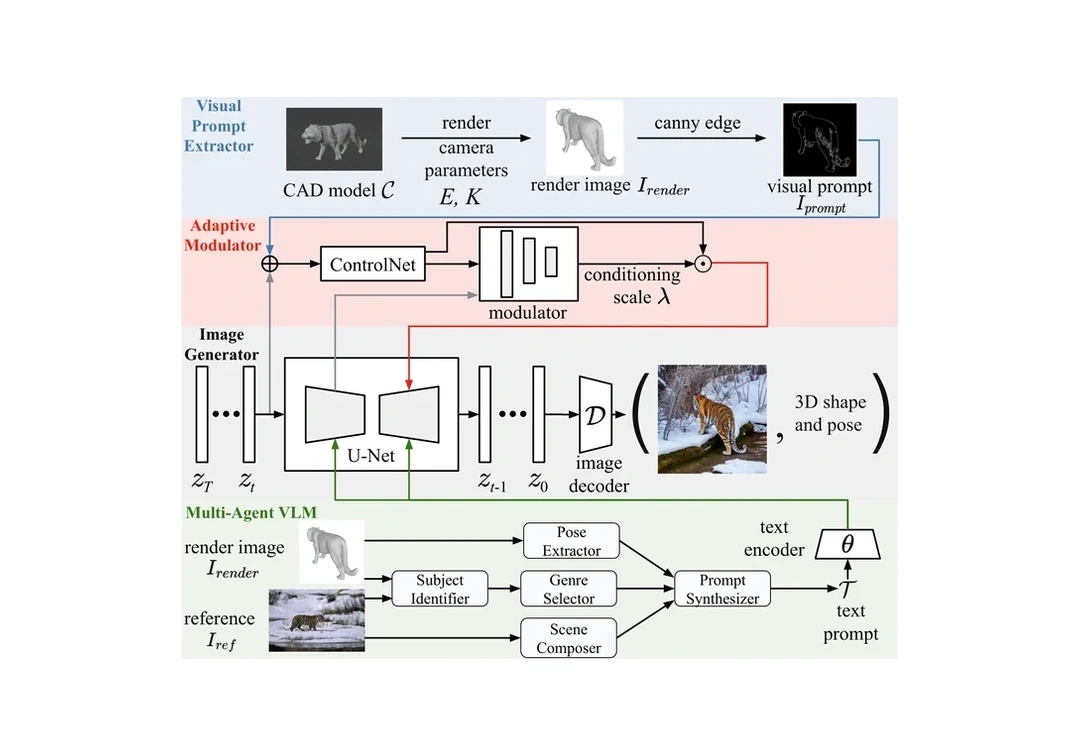
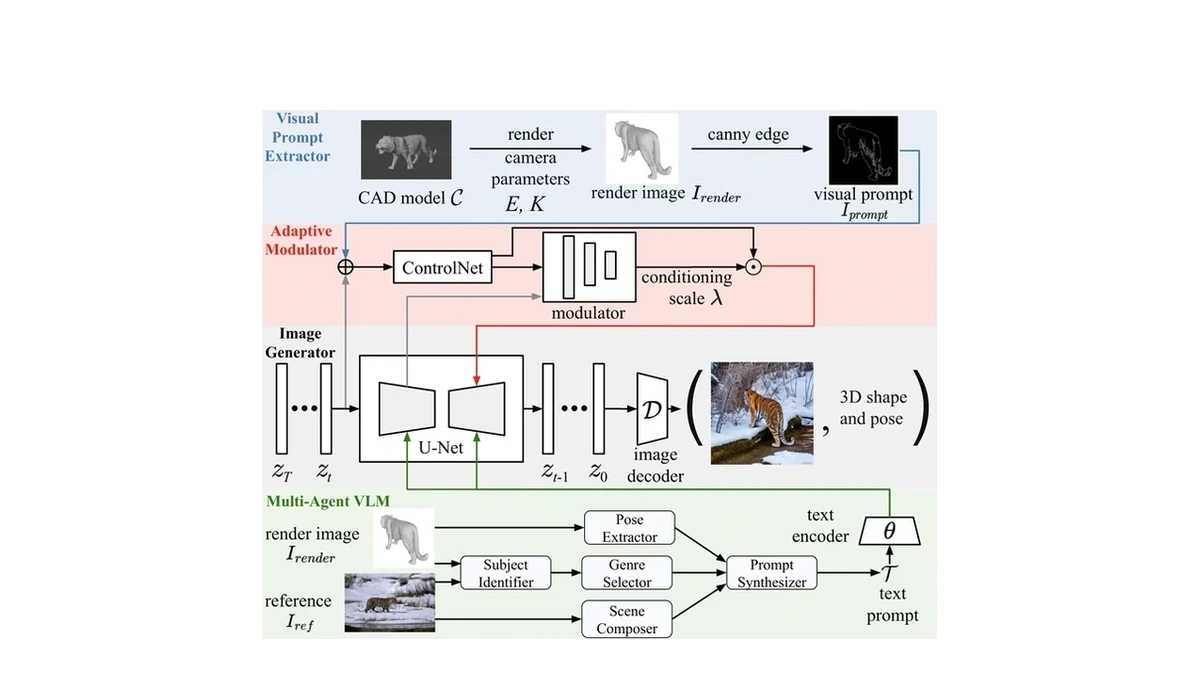
Update site description and paper thumbnails
Describe Qiran Hu as a Columbia MS student. Frame thumbnails at 16 by 9 and add an AC3S Poster link.

Changed region(s): [[0.1528, 0.1244, 0.8556, 0.9644]]

diff --git a/index.html b/index.html
@@ -7,15 +7,15 @@
     <meta name="theme-color" content="#13294B" />
     <!-- seo:head -->
     <title>Qiran Hu | Research Assistant</title>
-    <meta name="description" content="Qiran Hu, research assistant at the University of Illinois Urbana-Champaign working on multimodal learning, 3D-aware generative models, and multi-agent AI." />
+    <meta name="description" content="Qiran Hu, M.S. student at Columbia University and research assistant at UIUC, working on multimodal learning, 3D-aware generative models, and multi-agent AI." />
     <meta name="author" content="Qiran Hu" />
-    <meta name="keywords" content="Qiran Hu, 3D and 4D Aware Generative Models, World Models and Spatial Intelligence, Novel View Synthesis and Multi View Geometry, Continual and Multimodal Representation Learning, Multi Agent Orchestration and Agent Harnesses, Long Horizon Agent Memory and Context Engineering, Context Efficient Retrieval Augmented Generation, Long Form Video Language and Audio Visual Understanding, Foundation Model Training and Post Training, Quantization, Kernel Optimization, and Efficient Inference, Human AI Interaction and Agent Evaluation" />
+    <meta name="keywords" content="Qiran Hu, 3D- and 4D-Aware Generative Models, World Models and Spatial Intelligence, Novel View Synthesis and Multi-View Geometry, Continual and Multimodal Representation Learning, Multi-Agent Orchestration and Agent Harnesses, Long-Horizon Agent Memory and Context Engineering, Context-Efficient Retrieval-Augmented Generation, Long-Form Video-Language and Audio-Visual Understanding, Foundation Model Training and Post-Training, Quantization, Kernel Optimization, and Efficient Inference, Human-AI Interaction and Agent Evaluation" />
     <meta name="robots" content="index, follow, max-image-preview:large, max-snippet:-1, max-video-preview:-1" />
     <link rel="canonical" href="https://edward-h26.github.io/" />
     <meta property="og:type" content="profile" />
     <meta property="og:site_name" content="Qiran Hu" />
     <meta property="og:title" content="Qiran Hu | Research Assistant" />
-    <meta property="og:description" content="Qiran Hu, research assistant at the University of Illinois Urbana-Champaign working on multimodal learning, 3D-aware generative models, and multi-agent AI." />
+    <meta property="og:description" content="Qiran Hu, M.S. student at Columbia University and research assistant at UIUC, working on multimodal learning, 3D-aware generative models, and multi-agent AI." />
     <meta property="og:url" content="https://edward-h26.github.io/" />
     <meta property="og:image" content="https://edward-h26.github.io/images/og-card.png" />
     <meta property="og:image:width" content="1200" />
@@ -28,7 +28,7 @@
     <meta name="twitter:site" content="@QiranHu" />
     <meta name="twitter:creator" content="@QiranHu" />
     <meta name="twitter:title" content="Qiran Hu | Research Assistant" />
-    <meta name="twitter:description" content="Qiran Hu, research assistant at the University of Illinois Urbana-Champaign working on multimodal learning, 3D-aware generative models, and multi-agent AI." />
+    <meta name="twitter:description" content="Qiran Hu, M.S. student at Columbia University and research assistant at UIUC, working on multimodal learning, 3D-aware generative models, and multi-agent AI." />
     <meta name="twitter:image" content="https://edward-h26.github.io/images/og-card.png" />
     <link rel="me" href="https://github.com/Edward-H26" />
     <link rel="me" href="https://www.linkedin.com/in/qiranhu/" />
@@ -41,7 +41,7 @@
     .static-profile h3{font-size:1.05rem;margin:1.25rem 0 .25rem}
     .static-profile .meta{margin:0 0 .35rem;color:#4b5563}
     .static-profile nav ul{display:flex;flex-wrap:wrap;gap:.75rem;list-style:none;padding:0}</style>
-    <script type="application/ld+json">{"@context":"https://schema.org","@graph":[{"@type":"Person","@id":"https://edward-h26.github.io/#person","name":"Qiran Hu","givenName":"Qiran","familyName":"Hu","jobTitle":"Research Assistant","description":"I am a current student in Fu Foundation School of Engineering and Applied Science at Columbia University. I am a research assistant in Computer Vision and Machine Learning Group at University of Illinois Urbana-Champaign. I am also affiliated with the National Center for Supercomputing Applications and National Artificial Intelligence Research Resource Pilot. Previously, I received my B.S. in Data Science and Information Science with minors in Computer Science and Statistics at University of Illinois Urbana-Champaign. I am an applied AI researcher and full-stack software engineer creating new ways for people to interact with AI. I push the frontier of agentic experiences through rapid internal experiments. My research spans self-evolving multi-agent orchestration, dynamic context engineering for long-term memory, 3D-aware generative modeling, multimodal reasoning, and the next generation of human-AI interfaces.","email":"mailto:qh2332@columbia.edu","telephone":"+1 (347)-957-9176","url":"https://edward-h26.github.io/","image":"https://edward-h26.github.io/images/profile-1024.jpg","worksFor":{"@type":"Organization","name":"University of Illinois Urbana-Champaign","url":"https://www.illinois.edu/"},"affiliation":[{"@type":"Organization","name":"UIUC Computer Vision and Machine Learning Group","url":"https://vision.ischool.illinois.edu/people/"},{"@type":"EducationalOrganization","name":"Columbia University"},{"@type":"EducationalOrganization","name":"University of Illinois Urbana-Champaign"}],"sameAs":["https://github.com/Edward-H26","https://www.linkedin.com/in/qiranhu/","https://x.com/QiranHu","https://scholar.google.com/citations?user=4jv03f4AAAAJ&hl=en","https://edward-h26.github.io/PersonalWebsite/"],"knowsAbout":["3D and 4D Aware Generative Models","World Models and Spatial Intelligence","Novel View Synthesis and Multi View Geometry","Continual and Multimodal Representation Learning","Multi Agent Orchestration and Agent Harnesses","Long Horizon Agent Memory and Context Engineering","Context Efficient Retrieval Augmented Generation","Long Form Video Language and Audio Visual Understanding","Foundation Model Training and Post Training","Quantization, Kernel Optimization, and Efficient Inference","Human AI Interaction and Agent Evaluation"]},{"@type":"WebSite","@id":"https://edward-h26.github.io/#website","url":"https://edward-h26.github.io/","name":"Qiran Hu","description":"Qiran Hu, research assistant at the University of Illinois Urbana-Champaign working on multimodal learning, 3D-aware generative models, and multi-agent AI.","inLanguage":"en","author":{"@id":"https://edward-h26.github.io/#person"},"publisher":{"@id":"https://edward-h26.github.io/#person"}},{"@type":"ProfilePage","@id":"https://edward-h26.github.io/#profilepage","url":"https://edward-h26.github.io/","name":"Qiran Hu | Research Assistant","description":"Qiran Hu, research assistant at the University of Illinois Urbana-Champaign working on multimodal learning, 3D-aware generative models, and multi-agent AI.","inLanguage":"en","isPartOf":{"@id":"https://edward-h26.github.io/#website"},"mainEntity":{"@id":"https://edward-h26.github.io/#person"},"hasPart":[{"@type":"WebPage","@id":"https://edward-h26.github.io/publications/","url":"https://edward-h26.github.io/publications/","name":"Publications | Qiran Hu","description":"Publications of Qiran Hu, Research Assistant at University of Illinois Urbana-Champaign: AC3S: Adaptive Conditioning for 3D-Aware Synthetic Data Generation;…","isPartOf":{"@id":"https://edward-h26.github.io/#website"}},{"@type":"WebPage","@id":"https://edward-h26.github.io/research/","url":"https://edward-h26.github.io/research/","name":"Research | Qiran Hu","description":"Research of Qiran Hu, Research Assistant at University of Illinois Urbana-Champaign: UIUC Computer Vision and Machine Learning Group; Multi-modal Generative…","isPartOf":{"@id":"https://edward-h26.github.io/#website"}},{"@type":"WebPage","@id":"https://edward-h26.github.io/experience/","url":"https://edward-h26.github.io/experience/","name":"Experience | Qiran Hu","description":"Experience of Qiran Hu, Research Assistant at University of Illinois Urbana-Champaign: IBM Research; Memoria; Two by Two Learning; WRC, University of Illinois…","isPartOf":{"@id":"https://edward-h26.github.io/#website"}},{"@type":"WebPage","@id":"https://edward-h26.github.io/projects/","url":"https://edward-h26.github.io/projects/","name":"Projects | Qiran Hu","description":"Projects of Qiran Hu, Research Assistant at University of Illinois Urbana-Champaign: Long-Form Video-Language and Audio-Visual Social Understanding;…","isPartOf":{"@id":"https://edward-h26.github.io/#website"}},{"@type":"WebPage","@id":"https://edward-h26.github.io/teaching/","url":"https://edward-h26.github.io/teaching/","name":"Teaching | Qiran Hu","description":"Teaching of Qiran Hu, Research Assistant at University of Illinois Urbana-Champaign: CS 107 Data Science Discovery, University of Illinois Urbana-Champaign.","isPartOf":{"@id":"https://edward-h26.github.io/#website"}},{"@type":"WebPage","@id":"https://edward-h26.github.io/info/","url":"https://edward-h26.github.io/info/","name":"Info | Qiran Hu","description":"Info of Qiran Hu, Research Assistant at University of Illinois Urbana-Champaign: Languages; Certifications and Honors; Education.","isPartOf":{"@id":"https://edward-h26.github.io/#website"}},{"@type":"WebPage","@id":"https://edward-h26.github.io/service/","url":"https://edward-h26.github.io/service/","name":"Service | Qiran Hu","description":"Service of Qiran Hu, Research Assistant at University of Illinois Urbana-Champaign: OnePromptClaudeCode.","isPartOf":{"@id":"https://edward-h26.github.io/#website"}}]},{"@type":"ScholarlyArticle","@id":"https://arxiv.org/abs/2606.31204","headline":"AC3S: Adaptive Conditioning for 3D-Aware Synthetic Data Generation","name":"AC3S: Adaptive Conditioning for 3D-Aware Synthetic Data Generation","url":"https://arxiv.org/abs/2606.31204","author":[{"@type":"Person","name":"Eric Ji"},{"@id":"https://edward-h26.github.io/#person"},{"@type":"Person","name":"Wufei Ma"},{"@type":"Person","name":"Sarthak Jain"},{"@type":"Person","name":"Yingying Li"},{"@type":"Person","name":"Minh N. Do"},{"@type":"Person","name":"Yaoyao Liu"}],"subjectOf":[{"@type":"WebPage","name":"Code","url":"https://ac3s.cvmlgroup.web.illinois.edu/"},{"@type":"WebPage","name":"Video","url":"https://youtu.be/3jOJaT2a8iQ"},{"@type":"WebPage","name":"BibTeX","url":"https://arxiv.org/bibtex/2606.31204"}],"publication":{"@type":"PublicationEvent","name":"European Conference on Computer Vision (ECCV), 2026"}},{"@type":"ScholarlyArticle","@id":"https://arxiv.org/abs/2609.11209","headline":"REVA: Reusable Evidence View Aggregation for Context-Efficient RAG Serving","name":"REVA: Reusable Evidence View Aggregation for Context-Efficient RAG Serving","url":"https://arxiv.org/abs/2609.11209","author":[{"@type":"Person","name":"Tuan Nguyen"},{"@id":"https://edward-h26.github.io/#person"},{"@type":"Person","name":"Banruo Liu"},{"@type":"Person","name":"Khoa D. Doan"},{"@type":"Person","name":"Kok-Seng Wong"},{"@type":"Person","name":"Fan Lai"}],"subjectOf":[{"@type":"WebPage","name":"Code","url":"https://github.com/UIUC-MLSys/REVA"},{"@type":"WebPage","name":"BibTeX","url":"https://arxiv.org/bibtex/2609.11209"}],"publication":{"@type":"PublicationEvent","name":"IEEE International Conference on Data Mining (ICDM), 2026"}},{"@type":"ScholarlyArticle","@id":"https://edward-h26.github.io/publications/#publications-acdn-agent-aware-content-delivery-network","headline":"ACDN: Agent-Aware Content Delivery Network","name":"ACDN: Agent-Aware Content Delivery Network","url":"https://edward-h26.github.io/publications/#publications-acdn-agent-aware-content-delivery-network","author":[{"@type":"Person","name":"Tuan Nguyen"},{"@id":"https://edward-h26.github.io/#person"},{"@type":"Person","name":"Dibyadeep Saha"},{"@type":"Person","name":"Banruo Liu"},{"@type":"Person","name":"Khoa D. Doan"},{"@type":"Person","name":"Kok-Seng Wong"},{"@type":"Person","name":"Fan Lai"}],"creativeWorkStatus":"Under review"},{"@type":"ScholarlyArticle","@id":"https://edward-h26.github.io/publications/#publications-sv4d-3-0-single-step-3d-aware-diffusion-for-multi-view-consistent-4d-scene-generation","headline":"SV4D 3.0: Single-Step 3D-Aware Diffusion for Multi-View-Consistent 4D Scene Generation","name":"SV4D 3.0: Single-Step 3D-Aware Diffusion for Multi-View-Consistent 4D Scene Generation","url":"https://edward-h26.github.io/publications/#publications-sv4d-3-0-single-step-3d-aware-diffusion-for-multi-view-consistent-4d-scene-generation","author":[{"@id":"https://edward-h26.github.io/#person"},{"@type":"Person","name":"Wei Cao"},{"@type":"Person","name":"Yaoyao Liu"}],"creativeWorkStatus":"Under review"},{"@type":"ScholarlyArticle","@id":"https://edward-h26.github.io/publications/#publications-aisim-using-llm-simulation-as-epistemic-scaffolds-for-early-stage-qualitative-research-design","headline":"AISim: Using LLM-Simulation as Epistemic Scaffolds for Early Stage Qualitative Research Design","name":"AISim: Using LLM-Simulation as Epistemic Scaffolds for Early Stage Qualitative Research Design","url":"https://edward-h26.github.io/publications/#publications-aisim-using-llm-simulation-as-epistemic-scaffolds-for-early-stage-qualitative-research-design","author":[{"@type":"Person","name":"Hangyue Zhang"},{"@id":"https://edward-h26.github.io/#person"},{"@type":"Person","name":"Ziyi Zhang"},{"@type":"Person","name":"Hyanghee Park"},{"@type":"Person","name":"Yun Huang"}],"creativeWorkStatus":"Under review"},{"@type":"ScholarlyArticle","@id":"https://edward-h26.github.io/publications/#publications-alphawise-adaptive-weight-interpolation-for-continual-multimodal-representation-learning","headline":"AlphaWiSE: Adaptive Weight Interpolation for Continual Multimodal Representation Learning","name":"AlphaWiSE: Adaptive Weight Interpolation for Continual Multimodal Representation Learning","url":"https://edward-h26.github.io/publications/#publications-alphawise-adaptive-weight-interpolation-for-continual-multimodal-representation-learning","author":[{"@type":"Person","name":"Sarthak Jain"},{"@id":"https://edward-h26.github.io/#person"},{"@type":"Person","name":"Zhen Zhu"},{"@type":"Person","name":"Yaoyao Liu"}],"creativeWorkStatus":"Under review"}]}</script>
+    <script type="application/ld+json">{"@context":"https://schema.org","@graph":[{"@type":"Person","@id":"https://edward-h26.github.io/#person","name":"Qiran Hu","givenName":"Qiran","familyName":"Hu","jobTitle":"Research Assistant","description":"I am a current M.S. student in Fu Foundation School of Engineering and Applied Science at Columbia University. I am a research assistant in Computer Vision and Machine Learning Group at University of Illinois Urbana-Champaign. I am also affiliated with the National Center for Supercomputing Applications and National Artificial Intelligence Research Resource Pilot. Previously, I received my B.S. in Data Science and Information Science with minors in Computer Science and Statistics at University of Illinois Urbana-Champaign. I am an applied AI researcher and full-stack software engineer creating new ways for people to interact with AI. I push the frontier of agentic experiences through rapid internal experiments. My research spans self-evolving multi-agent orchestration, dynamic context engineering for long-term memory, 3D-aware generative modeling, multimodal reasoning, and the next generation of human-AI interfaces.","email":"mailto:qh2332@columbia.edu","telephone":"+1 (347) 957-9176","url":"https://edward-h26.github.io/","image":"https://edward-h26.github.io/images/profile-1024.jpg","worksFor":{"@type":"Organization","name":"University of Illinois Urbana-Champaign","url":"https://www.illinois.edu/"},"affiliation":[{"@type":"Organization","name":"UIUC Computer Vision and Machine Learning Group","url":"https://vision.ischool.illinois.edu/people/"},{"@type":"EducationalOrganization","name":"Columbia University"},{"@type":"EducationalOrganization","name":"University of Illinois Urbana-Champaign"}],"sameAs":["https://github.com/Edward-H26","https://www.linkedin.com/in/qiranhu/","https://x.com/QiranHu","https://scholar.google.com/citations?user=4jv03f4AAAAJ&hl=en","https://edward-h26.github.io/PersonalWebsite/"],"knowsAbout":["3D- and 4D-Aware Generative Models","World Models and Spatial Intelligence","Novel View Synthesis and Multi-View Geometry","Continual and Multimodal Representation Learning","Multi-Agent Orchestration and Agent Harnesses","Long-Horizon Agent Memory and Context Engineering","Context-Efficient Retrieval-Augmented Generation","Long-Form Video-Language and Audio-Visual Understanding","Foundation Model Training and Post-Training","Quantization, Kernel Optimization, and Efficient Inference","Human-AI Interaction and Agent Evaluation"]},{"@type":"WebSite","@id":"https://edward-h26.github.io/#website","url":"https://edward-h26.github.io/","name":"Qiran Hu","description":"Qiran Hu, M.S. student at Columbia University and research assistant at UIUC, working on multimodal learning, 3D-aware generative models, and multi-agent AI.","inLanguage":"en","author":{"@id":"https://edward-h26.github.io/#person"},"publisher":{"@id":"https://edward-h26.github.io/#person"}},{"@type":"ProfilePage","@id":"https://edward-h26.github.io/#profilepage","url":"https://edward-h26.github.io/","name":"Qiran Hu | Research Assistant","description":"Qiran Hu, M.S. student at Columbia University and research assistant at UIUC, working on multimodal learning, 3D-aware generative models, and multi-agent AI.","inLanguage":"en","isPartOf":{"@id":"https://edward-h26.github.io/#website"},"mainEntity":{"@id":"https://edward-h26.github.io/#person"},"hasPart":[{"@type":"WebPage","@id":"https://edward-h26.github.io/publications/","url":"https://edward-h26.github.io/publications/","name":"Publications | Qiran Hu","description":"Publications of Qiran Hu, Research Assistant at University of Illinois Urbana-Champaign: AC3S: Adaptive Conditioning for 3D-Aware Synthetic Data Generation;…","isPartOf":{"@id":"https://edward-h26.github.io/#website"}},{"@type":"WebPage","@id":"https://edward-h26.github.io/research/","url":"https://edward-h26.github.io/research/","name":"Research | Qiran Hu","description":"Research of Qiran Hu, Research Assistant at University of Illinois Urbana-Champaign: UIUC Computer Vision and Machine Learning Group; Multi-modal Generative…","isPartOf":{"@id":"https://edward-h26.github.io/#website"}},{"@type":"WebPage","@id":"https://edward-h26.github.io/experience/","url":"https://edward-h26.github.io/experience/","name":"Experience | Qiran Hu","description":"Experience of Qiran Hu, Research Assistant at University of Illinois Urbana-Champaign: IBM Research; Memoria; Two by Two Learning Center; WRC, University of…","isPartOf":{"@id":"https://edward-h26.github.io/#website"}},{"@type":"WebPage","@id":"https://edward-h26.github.io/projects/","url":"https://edward-h26.github.io/projects/","name":"Projects | Qiran Hu","description":"Projects of Qiran Hu, Research Assistant at University of Illinois Urbana-Champaign: Long-Form Video-Language and Audio-Visual Social Understanding;…","isPartOf":{"@id":"https://edward-h26.github.io/#website"}},{"@type":"WebPage","@id":"https://edward-h26.github.io/teaching/","url":"https://edward-h26.github.io/teaching/","name":"Teaching | Qiran Hu","description":"Teaching of Qiran Hu, Research Assistant at University of Illinois Urbana-Champaign: CS 107 Data Science Discovery, University of Illinois Urbana-Champaign.","isPartOf":{"@id":"https://edward-h26.github.io/#website"}},{"@type":"WebPage","@id":"https://edward-h26.github.io/info/","url":"https://edward-h26.github.io/info/","name":"Info | Qiran Hu","description":"Info of Qiran Hu, Research Assistant at University of Illinois Urbana-Champaign: Languages; Certifications and Honors; Education.","isPartOf":{"@id":"https://edward-h26.github.io/#website"}},{"@type":"WebPage","@id":"https://edward-h26.github.io/service/","url":"https://edward-h26.github.io/service/","name":"Service | Qiran Hu","description":"Service of Qiran Hu, Research Assistant at University of Illinois Urbana-Champaign: OnePromptClaudeCode.","isPartOf":{"@id":"https://edward-h26.github.io/#website"}}]},{"@type":"ScholarlyArticle","@id":"https://arxiv.org/abs/2606.31204","headline":"AC3S: Adaptive Conditioning for 3D-Aware Synthetic Data Generation","name":"AC3S: Adaptive Conditioning for 3D-Aware Synthetic Data Generation","url":"https://arxiv.org/abs/2606.31204","author":[{"@type":"Person","name":"Eric Ji"},{"@id":"https://edward-h26.github.io/#person"},{"@type":"Person","name":"Wufei Ma"},{"@type":"Person","name":"Sarthak Jain"},{"@type":"Person","name":"Yingying Li"},{"@type":"Person","name":"Minh N. Do"},{"@type":"Person","name":"Yaoyao Liu"}],"subjectOf":[{"@type":"WebPage","name":"Code","url":"https://ac3s.cvmlgroup.web.illinois.edu/"},{"@type":"WebPage","name":"Video","url":"https://youtu.be/3jOJaT2a8iQ"},{"@type":"WebPage","name":"Poster","url":"https://eccv.ecva.net/virtual/2026/poster/5183"},{"@type":"WebPage","name":"BibTeX","url":"https://arxiv.org/bibtex/2606.31204"}],"publication":{"@type":"PublicationEvent","name":"European Conference on Computer Vision (ECCV), 2026"}},{"@type":"ScholarlyArticle","@id":"https://arxiv.org/abs/2609.11209","headline":"REVA: Reusable Evidence View Aggregation for Context-Efficient RAG Serving","name":"REVA: Reusable Evidence View Aggregation for Context-Efficient RAG Serving","url":"https://arxiv.org/abs/2609.11209","author":[{"@type":"Person","name":"Tuan Nguyen"},{"@id":"https://edward-h26.github.io/#person"},{"@type":"Person","name":"Banruo Liu"},{"@type":"Person","name":"Khoa D. Doan"},{"@type":"Person","name":"Kok-Seng Wong"},{"@type":"Person","name":"Fan Lai"}],"subjectOf":[{"@type":"WebPage","name":"Code","url":"https://github.com/UIUC-MLSys/REVA"},{"@type":"WebPage","name":"BibTeX","url":"https://arxiv.org/bibtex/2609.11209"}],"publication":{"@type":"PublicationEvent","name":"IEEE International Conference on Data Mining (ICDM), 2026"}},{"@type":"ScholarlyArticle","@id":"https://edward-h26.github.io/publications/#publications-acdn-agent-aware-content-delivery-network","headline":"ACDN: Agent-Aware Content Delivery Network","name":"ACDN: Agent-Aware Content Delivery Network","url":"https://edward-h26.github.io/publications/#publications-acdn-agent-aware-content-delivery-network","author":[{"@type":"Person","name":"Tuan Nguyen"},{"@id":"https://edward-h26.github.io/#person"},{"@type":"Person","name":"Dibyadeep Saha"},{"@type":"Person","name":"Banruo Liu"},{"@type":"Person","name":"Khoa D. Doan"},{"@type":"Person","name":"Kok-Seng Wong"},{"@type":"Person","name":"Fan Lai"}],"creativeWorkStatus":"Under review"},{"@type":"ScholarlyArticle","@id":"https://edward-h26.github.io/publications/#publications-sv4d-3-0-single-step-3d-aware-diffusion-for-multi-view-consistent-4d-scene-generation","headline":"SV4D 3.0: Single-Step 3D-Aware Diffusion for Multi-View-Consistent 4D Scene Generation","name":"SV4D 3.0: Single-Step 3D-Aware Diffusion for Multi-View-Consistent 4D Scene Generation","url":"https://edward-h26.github.io/publications/#publications-sv4d-3-0-single-step-3d-aware-diffusion-for-multi-view-consistent-4d-scene-generation","author":[{"@id":"https://edward-h26.github.io/#person"},{"@type":"Person","name":"Wei Cao"},{"@type":"Person","name":"Yaoyao Liu"}],"creativeWorkStatus":"Under review"},{"@type":"ScholarlyArticle","@id":"https://edward-h26.github.io/publications/#publications-aisim-using-llm-simulation-as-epistemic-scaffolds-for-early-stage-qualitative-research-design","headline":"AISim: Using LLM-Simulation as Epistemic Scaffolds for Early Stage Qualitative Research Design","name":"AISim: Using LLM-Simulation as Epistemic Scaffolds for Early Stage Qualitative Research Design","url":"https://edward-h26.github.io/publications/#publications-aisim-using-llm-simulation-as-epistemic-scaffolds-for-early-stage-qualitative-research-design","author":[{"@type":"Person","name":"Hangyue Zhang"},{"@id":"https://edward-h26.github.io/#person"},{"@type":"Person","name":"Ziyi Zhang"},{"@type":"Person","name":"Hyanghee Park"},{"@type":"Person","name":"Yun Huang"}],"creativeWorkStatus":"Under review"},{"@type":"ScholarlyArticle","@id":"https://edward-h26.github.io/publications/#publications-alphawise-adaptive-weight-interpolation-for-continual-multimodal-representation-learning","headline":"AlphaWiSE: Adaptive Weight Interpolation for Continual Multimodal Representation Learning","name":"AlphaWiSE: Adaptive Weight Interpolation for Continual Multimodal Representation Learning","url":"https://edward-h26.github.io/publications/#publications-alphawise-adaptive-weight-interpolation-for-continual-multimodal-representation-learning","author":[{"@type":"Person","name":"Sarthak Jain"},{"@id":"https://edward-h26.github.io/#person"},{"@type":"Person","name":"Zhen Zhu"},{"@type":"Person","name":"Yaoyao Liu"}],"creativeWorkStatus":"Under review"}]}</script>
     <!-- /seo:head -->
     <link rel="preconnect" href="https://fonts.googleapis.com">
     <link rel="preconnect" href="https://fonts.gstatic.com" crossorigin>
@@ -59,7 +59,7 @@
       </header>
       <section id="about">
       <h2>About</h2>
-      <p>I am a current student in <a href="https://www.engineering.columbia.edu/about">Fu Foundation School of Engineering and Applied Science</a> at <a href="https://www.columbia.edu/">Columbia University</a>.</p>
+      <p>I am a current M.S. student in <a href="https://www.engineering.columbia.edu/about">Fu Foundation School of Engineering and Applied Science</a> at <a href="https://www.columbia.edu/">Columbia University</a>.</p>
       <p>I am a research assistant in <a href="https://vision.ischool.illinois.edu/index.html">Computer Vision and Machine Learning Group</a> at <a href="https://www.illinois.edu/">University of Illinois Urbana-Champaign</a>. I am also affiliated with the <a href="https://www.ncsa.illinois.edu/">National Center for Supercomputing Applications</a> and <a href="https://nairrpilot.org/">National Artificial Intelligence Research Resource Pilot</a>.</p>
       <p>Previously, I received my B.S. in Data Science and Information Science with minors in Computer Science and Statistics at <a href="https://www.illinois.edu/">University of Illinois Urbana-Champaign</a>.</p>
       <p>I am an applied AI researcher and full-stack software engineer creating new ways for people to interact with AI. I push the frontier of agentic experiences through rapid internal experiments. My research spans self-evolving multi-agent orchestration, dynamic context engineering for long-term memory, 3D-aware generative modeling, multimodal reasoning, and the next generation of human-AI interfaces.</p>
@@ -71,7 +71,7 @@
       </section>
       <section id="research-interests">
       <h2>Research Interests</h2>
-      <ul><li>3D and 4D Aware Generative Models</li><li>World Models and Spatial Intelligence</li><li>Novel View Synthesis and Multi View Geometry</li><li>Continual and Multimodal Representation Learning</li><li>Multi Agent Orchestration and Agent Harnesses</li><li>Long Horizon Agent Memory and Context Engineering</li><li>Context Efficient Retrieval Augmented Generation</li><li>Long Form Video Language and Audio Visual Understanding</li><li>Foundation Model Training and Post Training</li><li>Quantization, Kernel Optimization, and Efficient Inference</li><li>Human AI Interaction and Agent Evaluation</li></ul>
+      <ul><li>3D- and 4D-Aware Generative Models</li><li>World Models and Spatial Intelligence</li><li>Novel View Synthesis and Multi-View Geometry</li><li>Continual and Multimodal Representation Learning</li><li>Multi-Agent Orchestration and Agent Harnesses</li><li>Long-Horizon Agent Memory and Context Engineering</li><li>Context-Efficient Retrieval-Augmented Generation</li><li>Long-Form Video-Language and Audio-Visual Understanding</li><li>Foundation Model Training and Post-Training</li><li>Quantization, Kernel Optimization, and Efficient Inference</li><li>Human-AI Interaction and Agent Evaluation</li></ul>
       </section>
       <section id="publications">
       <h2><a href="https://edward-h26.github.io/publications/">Publications</a></h2>
@@ -79,7 +79,7 @@
       <article id="publications-ac3s-adaptive-conditioning-for-3d-aware-synthetic-data-generation">
       <h3>AC3S: Adaptive Conditioning for 3D-Aware Synthetic Data Generation</h3>
       <ul><li>[1] Eric Ji, Qiran Hu, Wufei Ma, Sarthak Jain, Yingying Li, Minh N. Do, Yaoyao Liu. AC3S: Adaptive Conditioning for 3D-Aware Synthetic Data Generation. European Conference on Computer Vision (ECCV), 2026.</li></ul>
-      <p>Links: <a href="https://arxiv.org/abs/2606.31204">arXiv</a>, <a href="https://ac3s.cvmlgroup.web.illinois.edu/">Code</a>, <a href="https://youtu.be/3jOJaT2a8iQ">Video</a>, <a href="https://arxiv.org/bibtex/2606.31204">BibTeX</a></p>
+      <p>Links: <a href="https://arxiv.org/abs/2606.31204">arXiv</a>, <a href="https://ac3s.cvmlgroup.web.illinois.edu/">Code</a>, <a href="https://youtu.be/3jOJaT2a8iQ">Video</a>, <a href="https://eccv.ecva.net/virtual/2026/poster/5183">Poster</a>, <a href="https://arxiv.org/bibtex/2606.31204">BibTeX</a></p>
       </article>
       <article id="publications-reva-reusable-evidence-view-aggregation-for-context-efficient-rag-serving">
       <h3>REVA: Reusable Evidence View Aggregation for Context-Efficient RAG Serving</h3>
@@ -130,7 +130,7 @@
       <article id="experience-ibm-research">
       <h3>IBM Research</h3>
       <p class="meta">Research Intern (Advisor: Dr. Dhaval Patel), 2026.09-Present, New York, NY</p>
-      <ul><li>Lead MCP server architecture for AssetOpsBench to give tool-using LLM agents typed access to failure-mode knowledge graphs, causal root-cause ranking, and intervention estimation with deterministic Neo4j queries and provenance on every result.</li><li>Create industrial fault-diagnosis RL environments for multi-step LLM agents over predictive-maintenance telemetry from 100 machines to benchmark evidence gathering and maintenance actions under hidden ground truth, look-alike faults, and incomplete observations.</li><li>Conduct controlled evaluations of four LLM agents under one model and action budget, raising Top-1 diagnosis accuracy by 88% over a Plan-Execute agent, and profile inference latency with PyTorch Profiler and Nsight on H100 GPUs.</li></ul>
+      <ul><li>Lead MCP server architecture for AssetOpsBench to give tool-using LLM agents typed access to failure-mode knowledge graphs, causal root-cause ranking, and intervention estimation with deterministic Neo4j queries and provenance on every result.</li><li>Create industrial fault-diagnosis RL environments for multi-step LLM agents over predictive-maintenance telemetry from 100 machines to benchmark evidence gathering and maintenance actions under hidden ground truth, look-alike faults, and incomplete observations.</li><li>Conduct controlled evaluations of four LLM agents under one model and action budget, raising Top-1 diagnosis accuracy by 88.0% over a Plan-Execute agent, and profile inference latency with PyTorch Profiler and Nsight on H100 GPUs.</li></ul>
       <p>Links: <a href="https://github.com/IBM/AssetOpsBench">AssetOpsBench</a></p>
       </article>
       <article id="experience-memoria">
@@ -139,8 +139,8 @@
       <ul><li>Led end-to-end agentic workflow deployments across MCP servers, sub-agents, and agent skills with multi-agent orchestration, permission-aware tool calling, and policy guardrails, accelerating product delivery by 4.0x compared to traditional approaches.</li><li>Managed production operations for deployed workflows with logging, evaluation harnesses, and monthly improvement cycles with client stakeholders, saving 90.5% in serving cost.</li><li>Optimized enterprise workflows with self-evolving per-user memory and cost-aware model routing across sessions, saving 96.0% in token cost compared to GPT-4 Turbo.</li></ul>
       <p>Links: <a href="https://miramemoria.com/">Website</a></p>
       </article>
-      <article id="experience-two-by-two-learning">
-      <h3>Two by Two Learning</h3>
+      <article id="experience-two-by-two-learning-center">
+      <h3>Two by Two Learning Center</h3>
       <p class="meta">Full Stack Developer, 2025.08-2026.08, Champaign, IL</p>
       <ul><li>Launched NOODEIA to help K-12 students falling behind grade level with multi-agent tutoring systems to plan, critique, and monitor each user with long-horizon memory, boosting user confidence by 2.4x in counterbalanced within-subjects studies.</li><li>Designed self-evolving long-term memory architectures to replace recency-biased FIFO memory architectures by retrieving contextually relevant prior interactions, accelerating memory queries by 3.6x compared to PostgreSQL.</li><li>Deployed complexity-aware model selection across planner, retrieval, solver, and critic stages to score each request and reserve frontier-tier inference for priority calls, eliminating 89.9% of monthly serving cost compared to GPT-4o.</li></ul>
       <p>Links: <a href="https://noodiea.onrender.com/">Website</a></p>
@@ -193,7 +193,7 @@
       <p class="meta">Personal Information</p>
       <article id="info-languages">
       <h3>Languages</h3>
-      <ul><li>Chinese (Native)</li><li>English (Native)</li><li>Spanish (Elementary)</li></ul>
+      <ul><li>Chinese (Native)</li><li>English (Native)</li><li>Spanish (Limited Working Proficiency)</li></ul>
       </article>
       <article id="info-certifications-and-honors">
       <h3>Certifications and Honors</h3>
@@ -202,7 +202,7 @@
       </article>
       <article id="info-education">
       <h3>Education</h3>
-      <ul><li>Columbia University, New York City, NY</li><li>M.S. in Data Science</li><li>Fu Foundation School of Engineering and Applied Science</li><li>Courses: High Performance Machine Learning, Algorithms</li><li>2026.08 - 2028.05</li></ul>
+      <ul><li>Columbia University, New York, NY</li><li>M.S. in Data Science</li><li>Fu Foundation School of Engineering and Applied Science</li><li>Courses: High Performance Machine Learning, Algorithms</li><li>2026.08 - 2028.05</li></ul>
       </article>
       <article id="info-education-2">
       <h3>Education</h3>
@@ -227,7 +227,7 @@
       <h2>Contact</h2>
       <ul>
       <li>Email: <a href="mailto:qh2332@columbia.edu">qh2332@columbia.edu</a></li>
-      <li>Phone: +1 (347)-957-9176</li>
+      <li>Phone: +1 (347) 957-9176</li>
       <li>GitHub: <a href="https://github.com/Edward-H26">https://github.com/Edward-H26</a></li>
       <li>LinkedIn: <a href="https://www.linkedin.com/in/qiranhu/">https://www.linkedin.com/in/qiranhu/</a></li>
       <li>X: <a href="https://x.com/QiranHu">https://x.com/QiranHu</a></li>

diff --git a/src/data/content.ts b/src/data/content.ts
@@ -35,11 +35,12 @@ const PUBLICATIONS: Publication[] = [
     authors: ["Eric Ji", "Qiran Hu", "Wufei Ma", "Sarthak Jain", "Yingying Li", "Minh N. Do", "Yaoyao Liu"],
     venue: "European Conference on Computer Vision (ECCV), 2026",
     badge: "ECCV",
-    image: { src: "/images/papers/ac3s.webp", width: 1080, height: 756, alt: "AC3S pipeline: visual prompt extractor, adaptive modulator, image generator, and multi-agent VLM" },
+    image: { src: "/images/papers/ac3s.webp", width: 1200, height: 675, alt: "AC3S pipeline: visual prompt extractor, adaptive modulator, image generator, and multi-agent VLM" },
     links: [
       { label: "arXiv", url: "https://arxiv.org/abs/2606.31204" },
       { label: "Code", url: "https://ac3s.cvmlgroup.web.illinois.edu/" },
       { label: "Video", url: "https://youtu.be/3jOJaT2a8iQ" },
+      { label: "Poster", url: "https://eccv.ecva.net/virtual/2026/poster/5183" },
       { label: "BibTeX", url: "https://arxiv.org/bibtex/2606.31204" },
     ],
   },
@@ -48,7 +49,7 @@ const PUBLICATIONS: Publication[] = [
     authors: ["Tuan Nguyen", "Qiran Hu", "Banruo Liu", "Khoa D. Doan", "Kok-Seng Wong", "Fan Lai"],
     venue: "IEEE International Conference on Data Mining (ICDM), 2026",
     badge: "ICDM",
-    image: { src: "/images/papers/reva.webp", width: 1080, height: 756, alt: "Three charts from the paper: online overhead per query across five compressors, F1 change over global truncation on four QA datasets, and the share of queries that re-access a stored document" },
+    image: { src: "/images/papers/reva.webp", width: 1200, height: 675, alt: "The REVA system: past requests leave reusable word scores in a word-score store, and a new request materializes per-document views from them" },
     links: [
       { label: "arXiv", url: "https://arxiv.org/abs/2609.11209" },
       { label: "Code", url: "https://github.com/UIUC-MLSys/REVA" },
@@ -60,28 +61,28 @@ const PUBLICATIONS: Publication[] = [
     authors: ["Tuan Nguyen", "Qiran Hu", "Dibyadeep Saha", "Banruo Liu", "Khoa D. Doan", "Kok-Seng Wong", "Fan Lai"],
     venue: "Under Review",
     badge: "Under Review",
-    image: { src: "/images/papers/acdn.webp", width: 1080, height: 756, alt: "No public figure yet; this paper is under review" },
+    image: { src: "/images/papers/acdn.webp", width: 1200, height: 675, alt: "No public figure yet; this paper is under review" },
   },
   {
     title: "SV4D 3.0: Single-Step 3D-Aware Diffusion for Multi-View-Consistent 4D Scene Generation",
     authors: ["Qiran Hu", "Wei Cao", "Yaoyao Liu"],
     venue: "Under Review",
     badge: "Under Review",
-    image: { src: "/images/papers/sv4d.webp", width: 1080, height: 756, alt: "No public figure yet; this paper is under review" },
+    image: { src: "/images/papers/sv4d.webp", width: 1200, height: 675, alt: "No public figure yet; this paper is under review" },
   },
   {
     title: "AISim: Using LLM-Simulation as Epistemic Scaffolds for Early Stage Qualitative Research Design",
     authors: ["Hangyue Zhang", "Qiran Hu", "Ziyi Zhang", "Hyanghee Park", "Yun Huang"],
     venue: "Under Review",
     badge: "Under Review",
-    image: { src: "/images/papers/aisim.webp", width: 1080, height: 756, alt: "No public figure yet; this paper is under review" },
+    image: { src: "/images/papers/aisim.webp", width: 1200, height: 675, alt: "No public figure yet; this paper is under review" },
   },
   {
     title: "AlphaWiSE: Adaptive Weight Interpolation for Continual Multimodal Representation Learning",
     authors: ["Sarthak Jain", "Qiran Hu", "Zhen Zhu", "Yaoyao Liu"],
     venue: "Under Review",
     badge: "Under Review",
-    image: { src: "/images/papers/alphawise.webp", width: 1080, height: 756, alt: "No public figure yet; this paper is under review" },
+    image: { src: "/images/papers/alphawise.webp", width: 1200, height: 675, alt: "No public figure yet; this paper is under review" },
   },
 ]
 
@@ -107,7 +108,7 @@ export const PROFILE = {
   title: "Research Assistant",
   affiliation: "University of Illinois Urbana-Champaign",
   email: "qh2332@columbia.edu",
-  phone: "+1 (347)-957-9176",
+  phone: "+1 (347) 957-9176",
   photo: "/images/profile-1024.jpg",
   social: {
     github: "https://github.com/Edward-H26",
@@ -137,7 +138,7 @@ export const NAV_ITEMS: NavItem[] = [...NAV_MAIN, ...NAV_MORE]
 
 export const HOME_BIO: BioSegment[][] = [
   [
-    { text: "I am a current student in " },
+    { text: "I am a current M.S. student in " },
     {
       text: "Fu Foundation School of Engineering and Applied Science",
       href: "https://www.engineering.columbia.edu/about",
@@ -240,17 +241,17 @@ export const NEWS: NewsItem[] = [
 ]
 
 export const RESEARCH_INTERESTS = [
-  "3D and 4D Aware Generative Models",
+  "3D- and 4D-Aware Generative Models",
   "World Models and Spatial Intelligence",
-  "Novel View Synthesis and Multi View Geometry",
+  "Novel View Synthesis and Multi-View Geometry",
   "Continual and Multimodal Representation Learning",
-  "Multi Agent Orchestration and Agent Harnesses",
-  "Long Horizon Agent Memory and Context Engineering",
-  "Context Efficient Retrieval Augmented Generation",
-  "Long Form Video Language and Audio Visual Understanding",
-  "Foundation Model Training and Post Training",
+  "Multi-Agent Orchestration and Agent Harnesses",
+  "Long-Horizon Agent Memory and Context Engineering",
+  "Context-Efficient Retrieval-Augmented Generation",
+  "Long-Form Video-Language and Audio-Visual Understanding",
+  "Foundation Model Training and Post-Training",
   "Quantization, Kernel Optimization, and Efficient Inference",
-  "Human AI Interaction and Agent Evaluation",
+  "Human-AI Interaction and Agent Evaluation",
 ]
 
 export const ANNOUNCEMENT = {
@@ -323,7 +324,7 @@ export const SECTIONS: Record<string, ContentSection> = {
         bullets: [
           "Lead MCP server architecture for AssetOpsBench to give tool-using LLM agents typed access to failure-mode knowledge graphs, causal root-cause ranking, and intervention estimation with deterministic Neo4j queries and provenance on every result.",
           "Create industrial fault-diagnosis RL environments for multi-step LLM agents over predictive-maintenance telemetry from 100 machines to benchmark evidence gathering and maintenance actions under hidden ground truth, look-alike faults, and incomplete observations.",
-          "Conduct controlled evaluations of four LLM agents under one model and action budget, raising Top-1 diagnosis accuracy by 88% over a Plan-Execute agent, and profile inference latency with PyTorch Profiler and Nsight on H100 GPUs.",
+          "Conduct controlled evaluations of four LLM agents under one model and action budget, raising Top-1 diagnosis accuracy by 88.0% over a Plan-Execute agent, and profile inference latency with PyTorch Profiler and Nsight on H100 GPUs.",
         ],
         links: [
           { label: "AssetOpsBench", url: "https://github.com/IBM/AssetOpsBench" },
@@ -344,7 +345,7 @@ export const SECTIONS: Record<string, ContentSection> = {
         ],
       },
       {
-        title: "Two by Two Learning",
+        title: "Two by Two Learning Center",
         subtitle: "Full Stack Developer",
         location: "Champaign, IL",
         date: "2025.08-2026.08",
@@ -480,7 +481,7 @@ export const SECTIONS: Record<string, ContentSection> = {
         bullets: [
           "Chinese (Native)",
           "English (Native)",
-          "Spanish (Elementary)",
+          "Spanish (Limited Working Proficiency)",
         ],
       },
       {
@@ -497,7 +498,7 @@ export const SECTIONS: Record<string, ContentSection> = {
       {
         title: "Education",
         bullets: [
-          "Columbia University, New York City, NY",
+          "Columbia University, New York, NY",
           "M.S. in Data Science",
           "Fu Foundation School of Engineering and Applied Science",
           "Courses: High Performance Machine Learning, Algorithms",

diff --git a/src/styles/globals.css b/src/styles/globals.css
@@ -155,9 +155,10 @@
 
   .paper-thumb {
     @apply relative m-0 overflow-hidden rounded-xl border border-primary/10 bg-white transition-all duration-200;
-    /* scripts/normalize-paper-figures.py in the Edward-H26 repo pads every figure onto one 10:7
-       canvas with the same margin, so the frame matches the file and adds no letterboxing. */
-    aspect-ratio: 10 / 7;
+    /* scripts/normalize-paper-figures.py in the Edward-H26 repo places every figure on one 16:9
+       canvas with a white band on top for the badge, so the frame matches the file and adds no
+       letterboxing: a tall figure fills the height, a wide one fills the width. */
+    aspect-ratio: 16 / 9;
     container-type: inline-size;
     box-shadow:
       0 12px 28px -12px rgba(19, 41, 75, 0.45),
